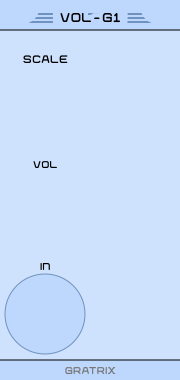
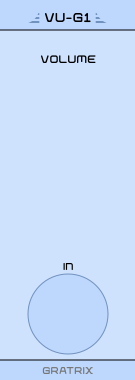
Generally improve volume module:, now 9 holes, remove knob, more lights.

diff --git a/src/Vol-G1.cpp b/src/Vol-G1.cpp
@@ -6,7 +6,6 @@
 struct Vol_G1 : Module
 {
 	enum ParamIds {
-		SCALE_PARAM,
 		NUM_PARAMS
 	};
 	enum InputIds {
@@ -17,7 +16,7 @@ struct Vol_G1 : Module
 		NUM_OUTPUTS,
 	};
 	enum LightIds {
-		NUM_LIGHTS = 5  // N
+		NUM_LIGHTS = 10  // N
 	};
 
 	Vol_G1()
@@ -33,18 +32,16 @@ struct Vol_G1 : Module
 
 	void step() override
 	{
-		float scale = params[SCALE_PARAM].value;
-
 		for (std::size_t i=0; i<GTX__N; ++i)
 		{
 			float input = inputs[imap(IN1_INPUT, i)].active ? inputs[imap(IN1_INPUT, i)].value : inputs[imap(IN1_INPUT, GTX__N)].value;
-			float dB    = logf(fabsf(scale * input * 0.1f)) * (10.0f / logf(20.0f));
+			float dB    = logf(fabsf(input * 0.1f)) * (10.0f / logf(20.0f));
 
 			for (int j = 0; j < NUM_LIGHTS; j++)
 			{
 				float b = clampf(dB / 3.0f + 1.0f + j, 0.0f, 1.0f);
 
-				lights[NUM_LIGHTS * i + j].setBrightnessSmooth(b);
+				lights[NUM_LIGHTS * i + j].setBrightnessSmooth(b * 0.9f);
 			}
 		}
 	}
@@ -59,15 +56,14 @@ Vol_G1_Widget::Vol_G1_Widget()
 
 	Vol_G1 *module = new Vol_G1();
 	setModule(module);
-	box.size = Vec(12*15, 380);
+	box.size = Vec(9*15, 380);
 
 	#if GTX__SAVE_SVG
 	{
-		PanelGen pg(assetPlugin(plugin, "build/res/Vol-G1.svg"), box.size, "VOL - G1");
+		PanelGen pg(assetPlugin(plugin, "build/res/Vol-G1.svg"), box.size, "VU-G1");
 
-		pg.nob_big(0, 0, "SCALE");
-		pg.bus_inx(0, 1, "VOL");
-		pg.bus_in (0, 2, "IN");
+		pg.nob_big(0.25, 0, "VOLUME");
+		pg.bus_in (0.25, 2, "IN");
 	}
 	#endif
 
@@ -89,20 +85,24 @@ Vol_G1_Widget::Vol_G1_Widget()
 	addChild(createScrew<ScrewSilver>(Vec(15, 365)));
 	addChild(createScrew<ScrewSilver>(Vec(box.size.x-30, 365)));
 
-	addParam(createParam<RoundHugeBlackKnob>(n_b(fx(0), fy(0)), module, Vol_G1::SCALE_PARAM, 0.0, 2.0, 1.0));
-
 	for (std::size_t i=0; i<GTX__N; ++i)
 	{
-		addInput(createInput<PJ301MPort>(prt(px(0, i), py(2, i)), module, Vol_G1::imap(Vol_G1::IN1_INPUT, i)));
+		addInput(createInput<PJ301MPort>(prt(px(0.25, i), py(2, i)), module, Vol_G1::imap(Vol_G1::IN1_INPUT, i)));
 	}
 
-	addInput(createInput<PJ301MPort>(prt(gx(0), gy(2)), module, Vol_G1::imap(Vol_G1::IN1_INPUT, GTX__N)));
+	addInput(createInput<PJ301MPort>(prt(gx(0.25), gy(2)), module, Vol_G1::imap(Vol_G1::IN1_INPUT, GTX__N)));
 
 	for (std::size_t i=0, k=0; i<GTX__N; ++i)
 	{
 		for (std::size_t j=0; j<Vol_G1::NUM_LIGHTS; ++j, ++k)
 		{
-			addChild(createLight<SmallLight<RedLight>>(led(gx(0)+(i-2.5f)*10.0f, gy(1)+(j-2.0f)*12.0f), module, k));
+			switch (j)
+			{
+				case 0  : addChild(createLight<SmallLight<   RedLight>>(led(gx(0.25)+(i-2.5f)*16.0f, gy(0.5)+(j-4.5f)*11.0f), module, k)); break;
+				case 1  :
+				case 2  : addChild(createLight<SmallLight<YellowLight>>(led(gx(0.25)+(i-2.5f)*16.0f, gy(0.5)+(j-4.5f)*11.0f), module, k)); break;
+				default : addChild(createLight<SmallLight< GreenLight>>(led(gx(0.25)+(i-2.5f)*16.0f, gy(0.5)+(j-4.5f)*11.0f), module, k)); break;
+			}
 		}
 	}
 }
